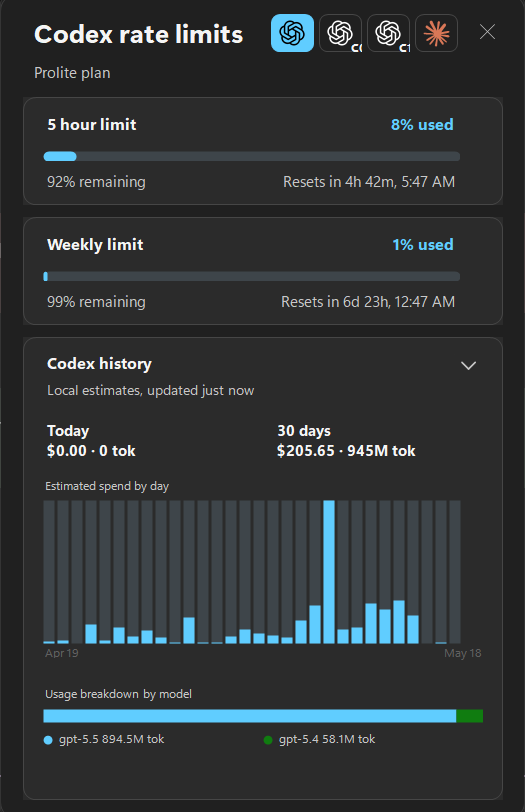
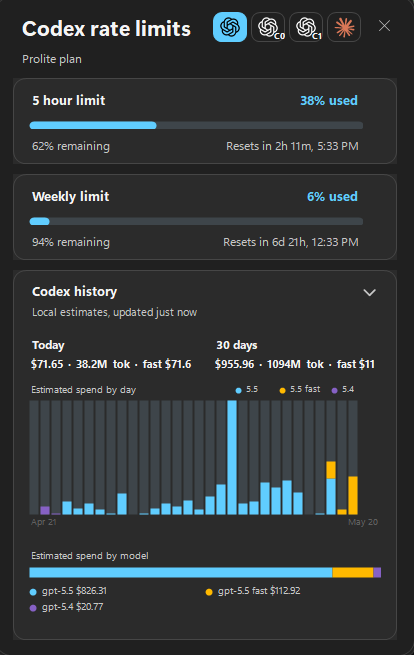
Update README preview image

diff --git a/README.md b/README.md
@@ -4,7 +4,7 @@ A small Windows tray app for checking AI coding assistant usage limits without o
 
 CodexBarWindows stays in the system tray. Left-click the tray icon to open a compact popup near the taskbar with tabs for Codex and Claude usage limits, including percentage used, remaining allowance, reset time, and Codex history charts.
 
-![CodexBarWindows preview](docs/codexbarwindows-preview.png)
+![CodexBarWindows Codex history preview](docs/codexbarwindows-preview.png)
 
 ## Features
 
